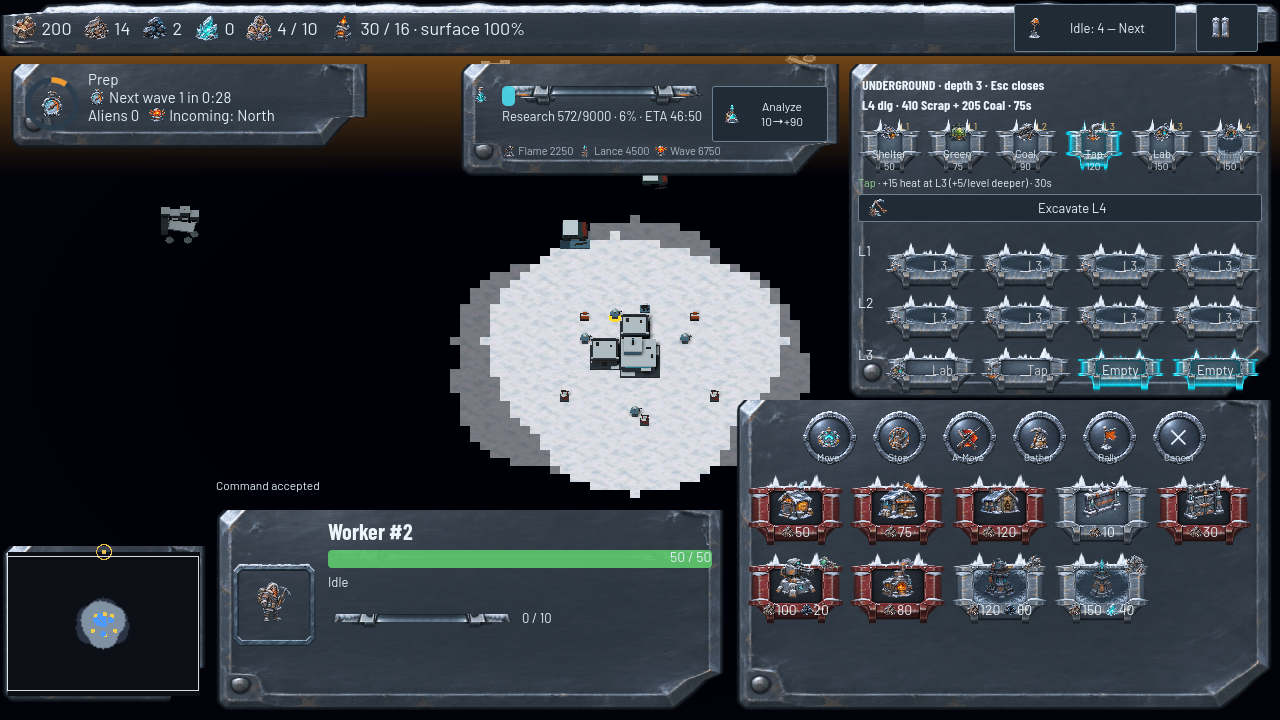
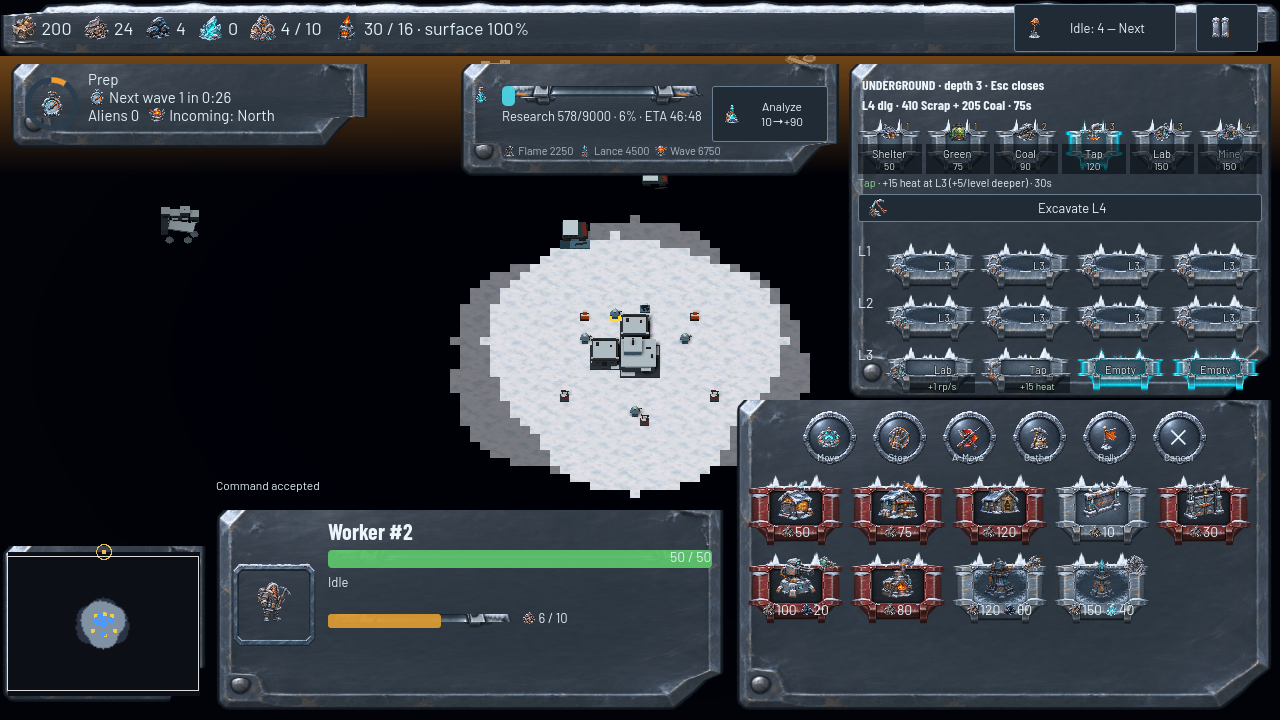
fix(hpa-698): keep underground labels legible and benefits visible

diff --git a/docs/superpowers/evidence/2026-11-09-hpa-698-frostline-hud/README.md b/docs/superpowers/evidence/2026-11-09-hpa-698-frostline-hud/README.md
@@ -1,7 +1,8 @@
 # HPA-698 Frostline HUD — final-head evidence
 
 Real 1280 × 720 frames captured from the final Frostline visual-fidelity
-head on branch `hpa-698-frostline-hud` (Task 3 code commit `f22d60e`).
+head on branch `hpa-698-frostline-hud` (Task 3 code commit `f22d60e` plus
+the underground legibility/benefit fix round).
 Every frame comes from an existing real-input smoke journey unless the row
 says otherwise. Captures are opt-in (`GRUS_CAPTURE_DIR`), use the reusable
 `SmokeHelpers.capture_frame` helper, and wait for
@@ -16,9 +17,11 @@ gameplay state. No approved mockup is committed here.
[13 lines of base64/hex data omitted]
 
@@ -34,15 +37,19 @@ gameplay state. No approved mockup is committed here.
   legible. The mockup's larger head tile and painted arrow are not reproduced
   because the game keeps five equal reusable sockets.
 - **`mockup-3.png` (Underground):** kind tiles reuse the same normal/pressed/
-  locked Tile states as the mockup; armed-eligible slots are cyan, locked
-  slots carry the padlock and their required level, occupied rooms keep the
-  normal painted plate and room icon, and unarmed empty slots are flat recesses.
-  The three visible rows and the digging readout follow the mockup's structure.
-  Remaining differences: the square Tile art is stretched into the game's wider
-  84 × 48 slot plates, the armed empty slots say `Empty` instead of the mockup's
-  `+` glyph, the game has no hazard-stripe digging row by design and uses the
-  existing theme ProgressBar instead, and the mockup's bottom benefit chips are
-  not implemented.
+  locked Tile states as the mockup; their names and prices sit on a clear dark
+  band so the painted frame no longer competes with them. Armed-eligible slots
+  are cyan, locked slots carry a 22 px padlock and their required level,
+  occupied rooms keep the normal painted plate, room icon and name, and an
+  always-visible snapshot benefit band (`+1 rp/s`, `+15 heat`, …). The room name
+  stays centred while construction progress is a compact top-right badge, so a
+  long name never shares a line with a percentage. Unarmed empty slots are flat
+  recesses. The three visible rows and the digging readout follow the mockup's
+  structure. Remaining differences: the square Tile art is stretched into the
+  game's wider 84 × 48 slot plates; the armed empty slots say `Empty` instead
+  of the mockup's `+` glyph; the game has no hazard-stripe digging row by
+  design and uses the existing theme ProgressBar instead; and the mockup's
+  separate bottom benefit-chip row is replaced by the per-room benefit bands.
 - **`mockup-4.png` (Start, Result and design tokens):** Start's three
   icon-led objectives, one controls strip and bright START match the approved
   treatment; Victory and Defeat titles sit on their own cloths and the Result
@@ -53,11 +60,12 @@ gameplay state. No approved mockup is committed here.
 ## Limits
 
 - Victory is a presentation-only `refresh_session` probe, not a gameplay win.
-- The **only** synthetic presentation probe in this task is the deeper
-  L4 four-row scroll check in `underground_smoke_test`; it is not captured in
-  these frames. The real journey stops at L3 because the unchanged first-wave
-  guard leaves no time to fund L4. The deeper-row frame/behaviour is therefore
-  widget-only evidence from the smoke assertions.
+- The synthetic presentation probes are the deeper L4 four-row
+  scroll/command-click check and its `Shelter` 99% long-name capture in
+  `underground_smoke_test`. The real journey stops at L3 because the unchanged
+  first-wave guard leaves no time to fund L4. Both are widget/showcase evidence
+  from the smoke assertions and the `hpa-698-underground-long-name-probe`
+  frame is labelled synthetic; no command, spend or sim state changes.
 - The map-edge clear-colour change from Task 1 is not re-litigated here: its
   before/after captures used different camera framing, so there is no
   controlled pixel comparison. The grey band is substantially improved but a
